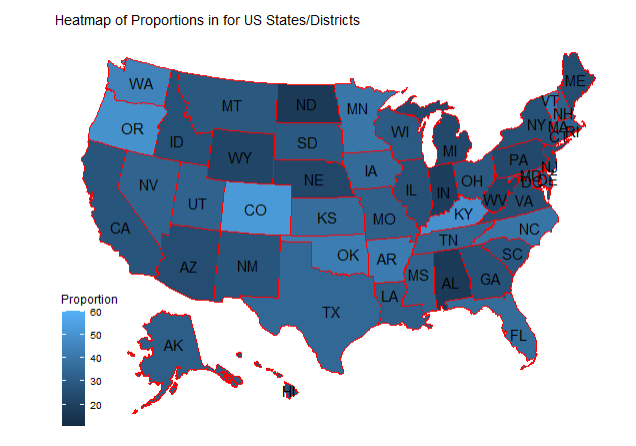
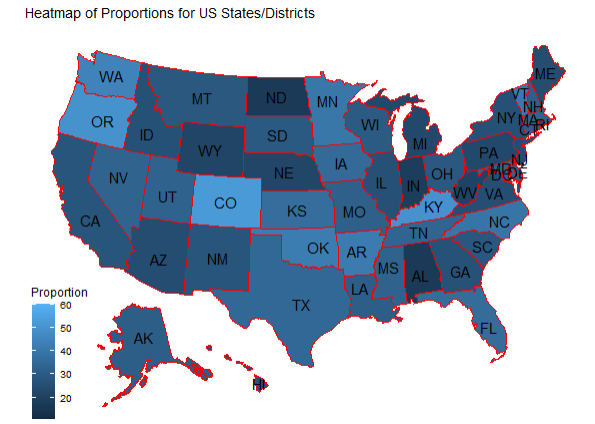
README updated

Changed region(s): [[0.0303, 0.092, 0.9681, 1.0], [0.0303, 0.0, 0.5748, 0.0613], [0.1815, 0.9198, 0.2118, 0.9505]]

diff --git a/README.md b/README.md
@@ -1,4 +1,4 @@
-# Regression Analysis of CDC Guidelines on Muscle strengthening Activity
+# Regression Analysis of CDC Guidelines on muscle-strengthening Activity
 
 ## Table of Contents
  - [Abstract](https://github.com/kaishuun/CDC-Physical-Activity-Regression-Analysis#abstract)
@@ -11,7 +11,7 @@
      - [Hypothesis Testing and Model Comparision](https://github.com/kaishuun/CDC-Physical-Activity-Regression-Analysis#hypothesis-testing-and-model-comparison)
      - [Model Building](https://github.com/kaishuun/CDC-Physical-Activity-Regression-Analysis#model-building)
  - [Results](https://github.com/kaishuun/CDC-Physical-Activity-Regression-Analysis#results)
-     - [Cross Validation and Test Data Results](https://github.com/kaishuun/CDC-Physical-Activity-Regression-Analysis#cross-validation-and-test-data-results)
+     - [Cross Validation and Test Data](https://github.com/kaishuun/CDC-Physical-Activity-Regression-Analysis#cross-validation-and-test-data)
      - [Residual Analysis](https://github.com/kaishuun/CDC-Physical-Activity-Regression-Analysis#residual-analysis)
  - [Conclusion](https://github.com/kaishuun/CDC-Physical-Activity-Regression-Analysis#conclusion)
  - [References](https://github.com/kaishuun/CDC-Physical-Activity-Regression-Analysis#references)
@@ -25,25 +25,25 @@ Adult obesity has been a long and growing issue in the United States with some c
 
 ## Introduction
 
-The Centers for Disease Control and Prevention (CDC) in the United States recommends that adults need at minimum 150 minutes of aerobic activity and at least two days of muscle-strengthening activities per week, but only 1 in 4 adults in the United States (US) and 1 in 5 high school students satisfy this recommendation. With obesity being a growing public health issue in the US, it is more than critical that Americans meet these recommendations by the CDC as there are harmful effects associated with not getting enough physical activity. These effects include being at a higher likelihood of developing high blood pressure, high blood cholesterol, type 2 diabetes, heart disease, and cancer, while the benefits vastly improve quality of life with improved sleep, cognitive ability, musculoskeletal health, and a reduced risk of dementia.
+The Centers for Disease Control and Prevention (CDC) in the United States recommends that adults need at minimum 150 minutes of aerobic activity and at least two days of muscle-strengthening activities per week, but only 1 in 4 adults in the United States (US) and 1 in 5 high school students satisfy this recommendation. With obesity being a growing public health issue in the US, it is more than critical that Americans meet these recommendations by the CDC as there are harmful effects associated with not getting enough physical activity. These effects include being at a higher likelihood of developing high blood pressure, high blood cholesterol, type 2 diabetes, heart disease, and cancer; while the benefits vastly improve quality of life with improved sleep, cognitive ability, musculoskeletal health, and a reduced risk of dementia.
 
-Using nutrition data provided by the CDC, our study population are adults over the age of 18, and we are assuming independence for the collected data. We utilize regression approaches to investigate the relationship between the proportion of adults that satisfies CDC guidelines on muscle-strengthening activity by the State/District that they reside and their age. Due to the long name of `proportion of adults that satisfies CDC guidelines on muscle-strengthening activity`, in our plots, we refer to this study question simply as `proportion`. Since the data is collected for this subject is only collected in 2011,2013, and 2015, we are also interested to see if there has been a change in proportions of adults engaging in muscle-strengthening activities over the years. In this study, we will investigate and determine what factors contribute to satisfying the muscle-strengthening requirements by the CDC, and see how the different variables are related.
+Using the nutrition data provided by the CDC, our study population are adults over the age of 18, and we are assuming independence for the collected data. We utilize regression approaches to investigate the relationship between the proportion of adults that satisfies CDC guidelines on muscle-strengthening activity by the State/District that they reside, their age, and year. Due to the long name of `proportion of adults that satisfies CDC guidelines on muscle-strengthening activity`, in our plots, we refer to this study question simply as `proportion`. Since the data collected for this study only include the years 2011,2013, and 2015, we are also interested to see if there has been a change in proportions of adults engaging in muscle-strengthening activities over the years. In this study, we will investigate and determine what factors contribute to satisfying the muscle-strengthening guidelines by the CDC, and see how the different variables are related.
 
 ## Data Cleaning & Description
 
 #### Data Cleaning
-The nutrition data consists of multiple different survey results investigating the different socio-economic factors and their effects on a multitude of survey questions. The survey is set up so that only one measure of socio-economic status is recorded for each survey question.
+The nutrition data consists of multiple different survey results investigating the different socio-economic factors and their effects on a multitude of survey questions. The survey is set up so that only one measure of socio-economic status is recorded for each question.
 
-We begin cleaning the data set by removing all redundant variables that contain the same information as another variable, footnotes, confidence intervals, and sample sizes for each survey. Furthermore, we see that there is no difference between the start and the end year of the survey, so we remove the end year. Finally, we filter the data set to surveys that include our question of interest: the proportion of adults who engage in muscle-strengthening activities on two or more days a week. As well, we narrow our focus to only US States and Districts since not enough data was available from US territories.
+We begin cleaning the data set by removing all redundant variables, footnotes, confidence intervals, and sample sizes for each survey. Furthermore, we see that there is no difference between the start and the end year of the survey, so we remove the end year. Finally, we filter the data set to surveys that include our question of interest: the proportion of adults who engage in muscle-strengthening activities on two or more days a week. As well, we narrow our focus to only US States and Districts since not enough data was available from US territories.
 
 After we cleaned and filtered our data, we are left with four variables.
 
 |Variable Name| Description|
 |-------------|------------|
-|Data_Value| The proportion of adults that satisfy CDC guidelines on muscle-strengthening exercise|
+|Data_Value| The proportion of adults that satisfy CDC guidelines on muscle-strengthening activity|
 |YearStart| The year the survey was conducted |
 | LocationDesc | Names of the 50 US States and the District of Columbia |
-|Age.years. | Groups ages into 6 categories (18-24),(25-34),(35-44),(45-54),(55-64),(65+) |
+|Age.years. | Age grouped into 6 categories: (18-24),(25-34),(35-44),(45-54),(55-64),(65+) |
 
 Where we are trying to predict Data_Value using year, State/District, and age.
 
@@ -52,7 +52,7 @@ Before we begin our exploratory analysis, we introduce the data point (YearStart
 #### Data Distribution
 ![](https://res.cloudinary.com/kevinhe/image/upload/v1607295476/STAT%20350%20Project/distribution_aoi6bn.png)
 
-We start by analyzing the distribution of each one of these variables. From the above bar charts, it is clear that the surveys are evenly distributed throughout the years, State/District, and age, except for the year `2011`, the State of `Alabama`, and the age grouping `18 - 24` as they all have one additional count due to the newly introduced data point. As well, when looking at the density of the proportion of adults that satisfy CDC recommendations for muscle-strengthening activities, it has a large peak that is slightly above 25, and a smaller spike around 43, and is generally right-skewed, potentially suggesting a bimodal distribution.
+We start by analyzing the distribution of each variable left after cleaning the data. From the above bar charts, it is clear that the surveys are evenly distributed throughout the years, State/District, and age, except for the year `2011`, the State of `Alabama`, and the age grouping `18 - 24` as they all have one additional count due to the newly introduced data point. As well, when looking at the density of the proportion of adults that satisfy CDC recommendations for muscle-strengthening activities, it is generally right-skewed and has a large peak that is slightly above 25 and a smaller spike around 43, potentially suggesting a bimodal distribution.
 
 #### Exploratory Analysis
 We now investigate the relationship between each explanatory variable with the response variable.
@@ -60,32 +60,32 @@ We now investigate the relationship between each explanatory variable with the r
 ![](https://res.cloudinary.com/kevinhe/image/upload/v1607295753/STAT%20350%20Project/exploratory_analysis_b8tov0.png)
 
 
-We start by exploring the change in the proportion of adults that satisfy CDC guidelines for muscle strengthening activity throughout the years of the study. Each year has a similar IQR with the distribution slightly increasing as the years advance, which implies a linear relationship. The new point is an extreme outlier for the 2011 boxplot.
+We start by exploring the change in the proportion of adults that satisfy CDC guidelines for muscle-strengthening activity throughout the years of the study. Each year has a similar IQR with the distribution slightly increasing as the years advance, which implies a linear relationship. The new point is an extreme outlier for the 2011 boxplot.
 
-When we compare the age groups to the proportion of adults that satisfy CDC guidelines for muscle strengthening activity the relationship becomes clear. As age increases, we see a negative linear relationship showing that younger adults are more likely to work out in comparison to older adults/seniors. An interesting observation with this boxplot is that the majority of outlier points have a very low proportion value, suggesting that there are States/Districts where very few adults are getting the muscle-strengthening exercise that they need.
+When we compare the age groups to the proportion of adults that satisfy CDC guidelines for muscle-strengthening activity, the relationship becomes clear. We see a negative linear relationship showing that younger adults are more likely to engage in muscle-strengthening activities in comparison to older adults/seniors. An interesting observation with this boxplot is that the majority of outlier points have a very low proportion value, suggesting that there are States/Districts where very few adults are getting the muscle-strengthening activity that they need.
 
-We compare to see if there is a difference in the proportion by State. This boxplot is arranged by increasing medians and there is clear evidence that the proportions are different by State, as the IQR for West Virginia and Colorado has no overlapping values. West Virginia has the lowest median proportion being just under 20, while Colorado has the highest median value over 30. To visualize this clearer, we have also produced a heat map of the proportion by State/District below.
+We then compare to see if there is a difference in proportion by State. This boxplot is arranged by increasing medians and there is clear evidence that the proportions are different by State, as the IQR for West Virginia and Colorado has no overlapping values. West Virginia has the lowest median proportion being just under 20, while Colorado has the highest median value being over 30. To visualize this clearer, we have also produced a heat map of the proportion by State/District below.
 
-![](https://res.cloudinary.com/kevinhe/image/upload/v1607295876/STAT%20350%20Project/heatmap_fqcbbg.png)
+![](https://res.cloudinary.com/kevinhe/image/upload/v1607311266/STAT%20350%20Project/heatmap_ty7bkv.png)
 
 ![](https://res.cloudinary.com/kevinhe/image/upload/v1607296017/STAT%20350%20Project/pairs_gu3gou.png)
 
-Lastly, we look at the pairs plot to check for relationships between each variable. When looking at the layout between explanatory variables there isn't a linear relationship as the data appears to be uniform. When comparing each explanatory variable to Data_Value, we see a clear linear relationship with Age.years. and a slight linear relationship with YearStart. The pairs plot of LocationDesc is harder to interpret, but the data primarily looks randomly distributed.
+Lastly, we look at the pairs plot to check for relationships between each variable. When looking at plots between explanatory variables, there is not a linear relationship as the data appears to be uniform. When comparing each explanatory variable to Data_Value, we see a clear linear relationship with Age.years. and a slight linear relationship with YearStart. The pairs plot of LocationDesc is harder to interpret, but the data primarily looks randomly distributed.
 
 ## Methods
 
-Before we build the regression models, we first split the data into a 80/20 train/test split for model testing and training.
+Before we build our regression models, we first split the data into a 80/20 train/test split for model training and testing.
 
 #### Hypothesis Testing and Model Comparison
 
-We want to know if the slopes of the regression line depend on the different factor levels for the age groups and the State/District. We train a linear regression model with no interaction terms on the training data, as well as create models with interaction terms on age groups, State/District, and both age groups and State/District also using the training data. The result of our hypothesis test suggests that the slopes are different for age groups and State/District using alpha = 0.05.
+We want to know if the slopes of the regression line depend on the different factor levels for the age groups and the State/District. We train a linear regression model with no interaction terms on the training data, as well as create models with interaction terms on age groups, State/District, and both age groups and State/District also using the training data. The result of our hypothesis test suggests that the slopes are dependent on both the different levels of age groups and State/District at alpha = 0.05. The models used for these tests and the p-value for each test is reported below.
 
 |Model| Description|
 |-----|------------|
 |Linear Regression | Data_Value ~ YearStart + Age.years + Location Desc |
 |Linear Regression with Interaction Term `YearStart:Age.years` | Data_Value ~ YearStart + Age.years + Location Desc + YearStart:Age.years |
 |Linear Regression with Interaction Term `YearStart:LocationDesc` | Data_Value ~ YearStart + Age.years + Location Desc + YearStart:LocationDesc |
-|Linear Regression with Both Interaction Terms on `YearStart:LocationDesc` and `YearStart:Age.years` | Data_Value ~ YearStart + Age.years + Location Desc + YearStart:Age.years + YearStart:LocationDesc|
+|Linear Regression with Both Interaction Terms  `YearStart:LocationDesc` and `YearStart:Age.years` | Data_Value ~ YearStart + Age.years + Location Desc + YearStart:Age.years + YearStart:LocationDesc|
 
 | Anova Test | P-Value|
 |------------|--------|
@@ -95,7 +95,7 @@ We want to know if the slopes of the regression line depend on the different fac
 
 
 
-Since we are primarily concerned with the predictive power of each model and since adding interaction terms affects the bias-variance tradeoff of the model we compare these models using AIC values.
+Due to the fact that we are primarily concerned with the predictive power of each model and since adding interaction terms affects the bias-variance tradeoff, we compare these models using AIC values.
 
 |Model| AIC |
 |-----|-----|
@@ -104,7 +104,7 @@ Since we are primarily concerned with the predictive power of each model and sin
 |Linear Regression - LocationDesc interaction | 3528.803|
 |Linear Regression - Age group and LocationDesc interaction | 3523.032|
 
-Here we see that despite the slopes being different for each level of age group and State/District the model with only the interaction term on age performs the best according to the AIC value with the model with no interaction terms following closely behind.
+Here we see that despite the slopes being different for each level of age group and State/District, the model with only the interaction term on age performs the best according to the AIC value with the model with no interaction terms following closely behind.
 
 #### Model Building
 
@@ -113,15 +113,15 @@ We now start to build our regression models and start tuning parameters if neces
 Although we have completed hypothesis testing and model selection on the training data to test if interaction terms are necessary, we still use the models that we have rejected. Specifically, we fit the following models using all explanatory variables:
 
 - linear regression
-  - (Data_Value ~ YearStart + Age.years + Location Desc)
+  - Data_Value ~ YearStart + Age.years + Location Desc
 - linear regression with interaction term `YearStart:Age.years`
-  - (Data_Value ~ YearStart + Age.years + Location Desc + YearStart:Age.years)
+  - Data_Value ~ YearStart + Age.years + Location Desc + YearStart:Age.years
 - linear regression with interaction term `YearStart:LocationDesc`
-  - (Data_Value ~ YearStart + Age.years + Location Desc + YearStart:LocationDesc)
+  - Data_Value ~ YearStart + Age.years + Location Desc + YearStart:LocationDesc
 - linear regression with both interaction terms on `YearStart:LocationDesc` and `YearStart:Age.years`
-  - (Data_Value ~ YearStart + Age.years + Location Desc + YearStart:Age.years + YearStart:LocationDesc)
+  - Data_Value ~ YearStart + Age.years + Location Desc + YearStart:Age.years + YearStart:LocationDesc
 
-For each one of the models listed above, we also perform stepwise variable selection with parameter tuning from using 10-Fold Cross Validation for a total of 8 models.
+For each one of the models listed above, we also perform stepwise variable selection with parameter tuning from using 10-fold cross validation for a total of 8 models.
 
 ## Results
 
@@ -131,9 +131,9 @@ With the R^2 and the root-MSPE saved from the 10-fold cross-validation results, 
 
 ![](https://res.cloudinary.com/kevinhe/image/upload/v1607215843/STAT%20350%20Project/MSPE_fiwkkl.png)
 
-From the left boxplot containing root-MSPE values, it is evident that none of the stepwise regression models performed as well as the linear regression models as they have the largest root-MSPE values. When comparing the linear regression models, the model with no interaction terms performs the best as it has one of the lowest median root-MSPE values and a low boxplot range. The model with interaction on age follows closely behind, but it has the highest median root-MSPE values out of the linear regression models.
+From the left boxplot containing root-MSPE values, it is evident that none of the stepwise regression models performed as well as the linear regression models as they have the largest root-MSPE values. When comparing the linear regression models, the model with no interaction terms performs the best as it has one of the lowest median root-MSPE values and a low boxplot range. The model with the interaction on age follows closely behind, but it has the highest median root-MSPE value out of the linear regression models.
 
-We also produced boxplots for the R^2 value in each fold of all models. The two best models are the linear regression model with no interaction terms and the linear regression model with interaction on age groups, they both have around the same median R^2 value and IQR, but we select the model without interaction terms as it does not have long boxplot whiskers and it is a simpler model.
+We also produced boxplots for the R^2 value for each fold of all models. The two best models are the linear regression model with no interaction terms and the linear regression model with interaction on age groups. They both have around the same median R^2 value and IQR, but we select the model without interaction terms as it does not have long boxplot whiskers and it is a simpler model.
 
 
 Finally, we see how each model performs on new data, specifically our test data set. We get the following results:
@@ -149,9 +149,9 @@ Finally, we see how each model performs on new data, specifically our test data 
 |Stepwise Regression - LocationDesc interaction |  27.18744  |
 |Stepwise Regression - Age group and LocationDesc interaction |27.18744 |
 
-As expected from the cross-validation results, the linear regression model with no interaction terms performs the best with the linear regression model with a interaction on age being close behind. This result contradicts the conclusion of our hypothesis tests to see if the slopes depended on the different levels of LocationDesc and Age.years. , but is backed up by our original model comparison using AIC as it has one of the top AIC values in comparison to the other models. This discrepancy could be explained by the bias-variance trade-off that we briefly touched on before, as although we have 735 observation in our training data, we also have 51 levels in the LocationDesc variable and 6 levels in the Age.years. variable; so in actuality, when we create interaction terms we have to estimate the coefficients for 306 additional variables, which decreases the bias of the model as we have a more flexible model, but in turn, our variance increases, making our models more variable.
+As expected from the cross-validation results, the linear regression model with no interaction terms performs the best with the linear regression model with a interaction on age being close behind. This result contradicts the conclusion of our hypothesis tests to see if the slopes depended on the different levels of LocationDesc and Age.years. , but is backed up by our original model comparison using AIC, as it has one of the top AIC values in comparison to the other models. This discrepancy could be explained by the bias-variance tradeoff that we briefly touched on before, as although we have 735 observation in our training data, we also have 51 levels in the LocationDesc variable and 6 levels in the Age.years. variable; so in actuality, when we create interaction terms, we have to estimate the coefficients for 306 additional variables, which decreases the bias of the model as we have a more flexible model, but in turn, our variance increases, making our models more variable.
 
-From both cross-validation and the testing data we select the linear regression model with no interaction terms to be our best model. We include a plot of the predicted vs observed value from our final model.
+From both cross-validation and the test data results, we select the linear regression model with no interaction terms to be our best model. We also include a plot of the predicted vs observed value from our final model.
 
 ![](https://res.cloudinary.com/kevinhe/image/upload/v1607216237/STAT%20350%20Project/predicted_aaijtt.png)
 
@@ -166,20 +166,20 @@ We first see if there is a linear relationship between at least one of the expla
 We now perform analysis on the residuals.
 ![](https://res.cloudinary.com/kevinhe/image/upload/v1607216516/STAT%20350%20Project/residuals_aiqgwj.png)
 
- By looking at the Residual vs Fitted plot, all the points are randomly scattered with a mean of 0 and no clear pattern, which suggests that the constant variance assumption is satisfied.
+ By looking at the Residual vs Fitted plot, all the points are randomly scattered with a mean of 0 with no clear pattern, which suggests that the constant variance assumption is satisfied.
 
-The Normal Q-Q plot, for the majority, follows a straight line with few points around the edges of both extremes deviating from the line. From this observation, the normality of the residuals is satisfied.
+The Normal Q-Q plot, for the majority, follows a straight line with very few points around the edges of both extremes deviating from the line. From this observation, the normality of the residuals is satisfied.
 
 For the standardized residuals vs leverage plot, the points for leverage are scattered evenly around the same area with no points having a large leverage. As well, there exists a couple of points with standardized residuals beyond +/- 3, but since they do not have a high leverage point, they are not considered to be influential.
 
 To double check that we do not have any influential points we use both Cook's Distance and diag(H) with standardized residuals, of which no influential points were identified.
 
-Lastly, we use the Variance Inflation Factor to see if there exists an issue with multicollinearity in the model, and since all the values are around 1, we conclude that there is no issues with multicollinearity.
+Lastly, we use the variance inflation factor to see if there exists an issue with multicollinearity in the model, and since all the values are around 1, we conclude that there is no issues with multicollinearity.
 
 ## Conclusion
-  Overall, our final model, the linear regression model with no interaction terms, has an R^2 value of 0.8891376 which is a great performance given the number of variables that were filtered from the data set. Running one last summary on our chosen model we are able to answer the questions posed in the beginning of the analysis. We first see that as the year increases there has been an improvement in the proportion of US adults that satisfies CDC guideline on muscle strengthening activity, although this change is quite marginal with a 0.38% increase per year from 2013 to 2015; this variable also poses as a limitation in our model which will be discussed later on. As well, we can see from the model that younger age groups are more likely to satisfy CDC guidelines on muscle strengthening activity, with about a 3% difference in proportion as age increases. Finally, we are able to conclude that the likelihood of satisfying CDC guidelines on muscle strengthening activities depends on the State/District of residence with states such as Hawaii, Alaska, Virginia, and Colorado having some of the largest increases for the intercept of the model, which is consistent with our exploratory analysis.
+  Overall, our final model, the linear regression model with no interaction terms, has an R^2 value of 0.8891376 which performs great given the number of variables that were filtered from the data set. Running one last summary on our chosen model we are able to answer the questions posed in the beginning of the analysis. We first see that as the year increases there has been an improvement in the proportion of US adults that satisfies CDC guideline on muscle-strengthening activity, although this change is quite marginal with a 0.38% increase per year from 2013 to 2015; this variable also poses as a limitation in our model which will be discussed later on. As well, we can see from the model that younger age groups are more likely to satisfy CDC guidelines on muscle-strengthening activity, with about a 3% decrease in proportion as age increases. Finally, we are able to conclude that the likelihood of satisfying CDC guidelines on muscle-strengthening activities depends on the State/District of residence with states such as Hawaii, Alaska, Virginia, and Colorado has some of the largest increases for the intercept of the model, which is consistent with our exploratory analysis.
 
-  Some of the limitations of the model include having the YearStart as one of the variables in our model as we do not know if the upwards trend will continuously be linear or if the increase will slow down as time goes on, forcing us to extrapolate for predictions outside of the year range 2013 - 2015. Moreover, including 51 levels of State/District and 6 levels of Age groups impacts our model as we have to fit a coefficient for each level which increases model complexity. In future studies, States/District could be grouped into the 9 census regions or into Democratic and Republican controlled States/District to reduce their model complexity and to investigate further questions related to the data.
+  Some of the limitations of this study include having YearStart as one of the variables in our model as we do not know if the upwards trend will continuously be linear or if the increase will slow down as time goes on, forcing us to extrapolate for predictions outside of the year range 2013 - 2015. Moreover, including 51 levels of State/District and 6 levels of Age groups impacts our model as we have to fit a coefficient for each level which increases model complexity. In future studies, States/District could be grouped into the 9 census regions or into Democratic and Republican controlled States/District to reduce their model complexity and to investigate further questions related to the data.
 
 ## References
 - [Physical Activit Recommendations for Different Age Groups - CDC](https://www.cdc.gov/physicalactivity/basics/age-chart.html)
